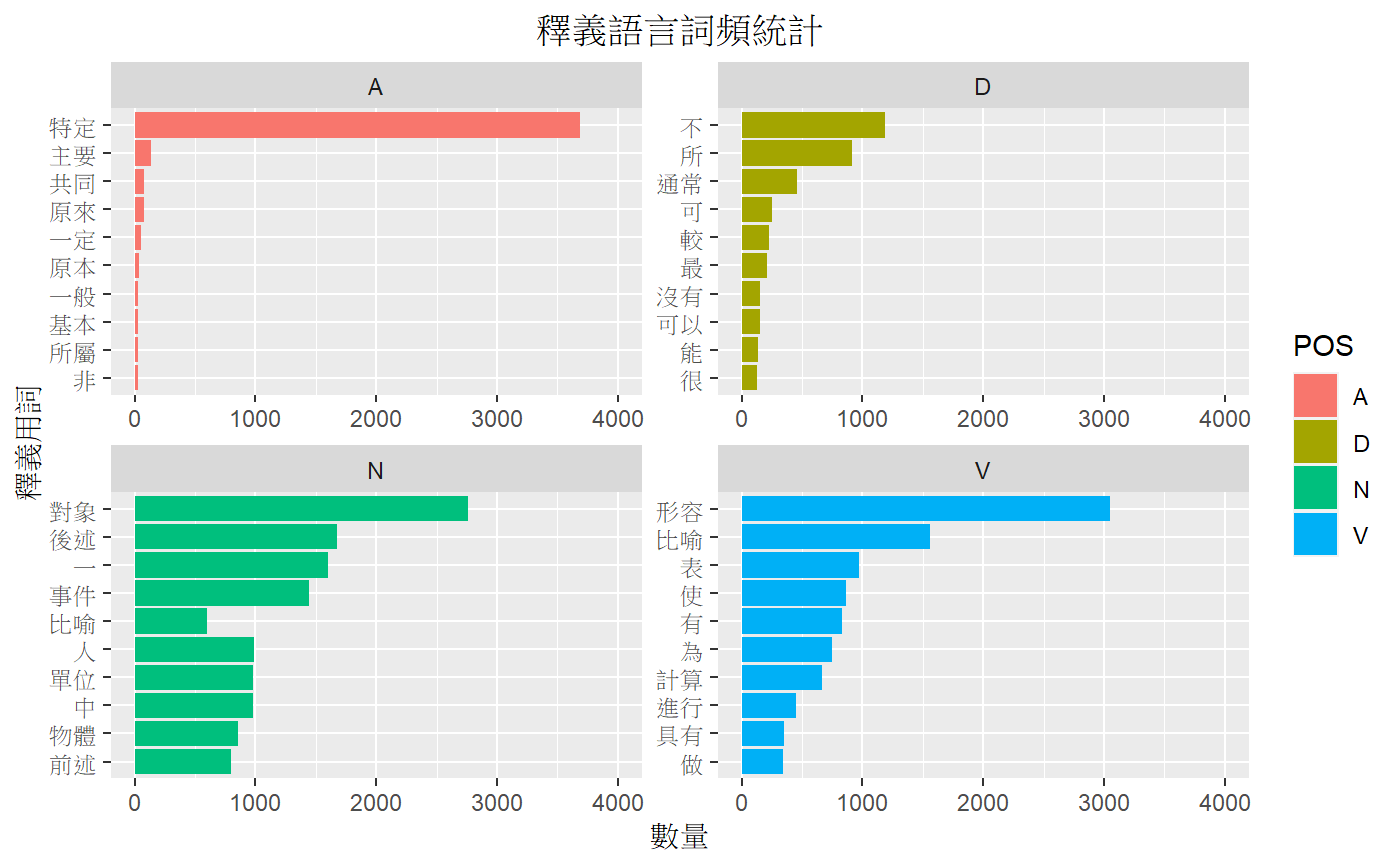
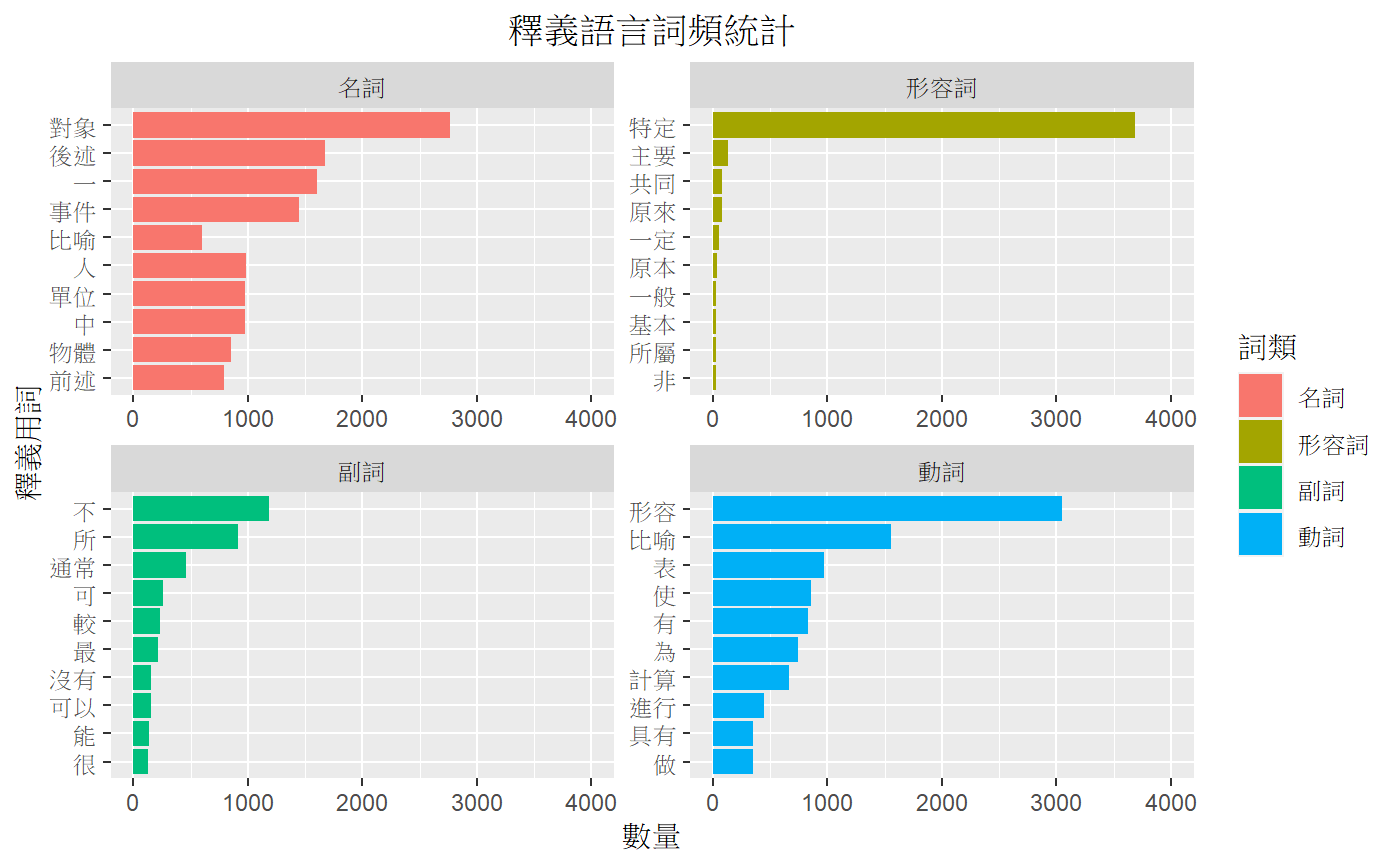
update

diff --git a/index.html b/index.html
@@ -217,10 +217,10 @@
         <span class="w3-xlarge w3-padding-small w3-border-teal w3-bottombar">釋義語言統計分析</span>
         <div class="w3-row-padding" style="margin-top:12px">
           <p>
-            在CWN目前的釋義語言當中，名詞所佔比例最多，共71,600個名詞，佔49%。其次為動詞，共44,179個動詞，佔30%。其餘有7,240個副詞，佔5%。4,729個形容詞，佔3%。剩下約12%則不屬此四個詞類之一。詳細比例見下圖所示。</p>
+            在CWN用於釋義的釋義語言當中，目前總共有160,538個單詞，包含14,961個不重複的中文詞彙，在這160,538個單詞當中，名詞的數量最多，共71,600個名詞，佔45%。其次為動詞，共44,179個動詞，佔28%。其餘有7,240個副詞，佔5%。4,729個形容詞，佔3%。剩下大約20%則不屬此四個詞類之一。詳細比例見下圖所示。</p>
           <img src="assets/img/pie.png" width="750">
           <p>
-            以下圖表為CWN釋義語言中，使用次數最多的前10個形容詞、副詞、名詞、以及動詞。</p>
+            以下圖表為CWN釋義語言中，使用次數最多的前10個名詞、形容詞、副詞、以及動詞。</p>
           <img src="assets/img/meta_word_freq.png" width="750">
         </div>
       </div>
